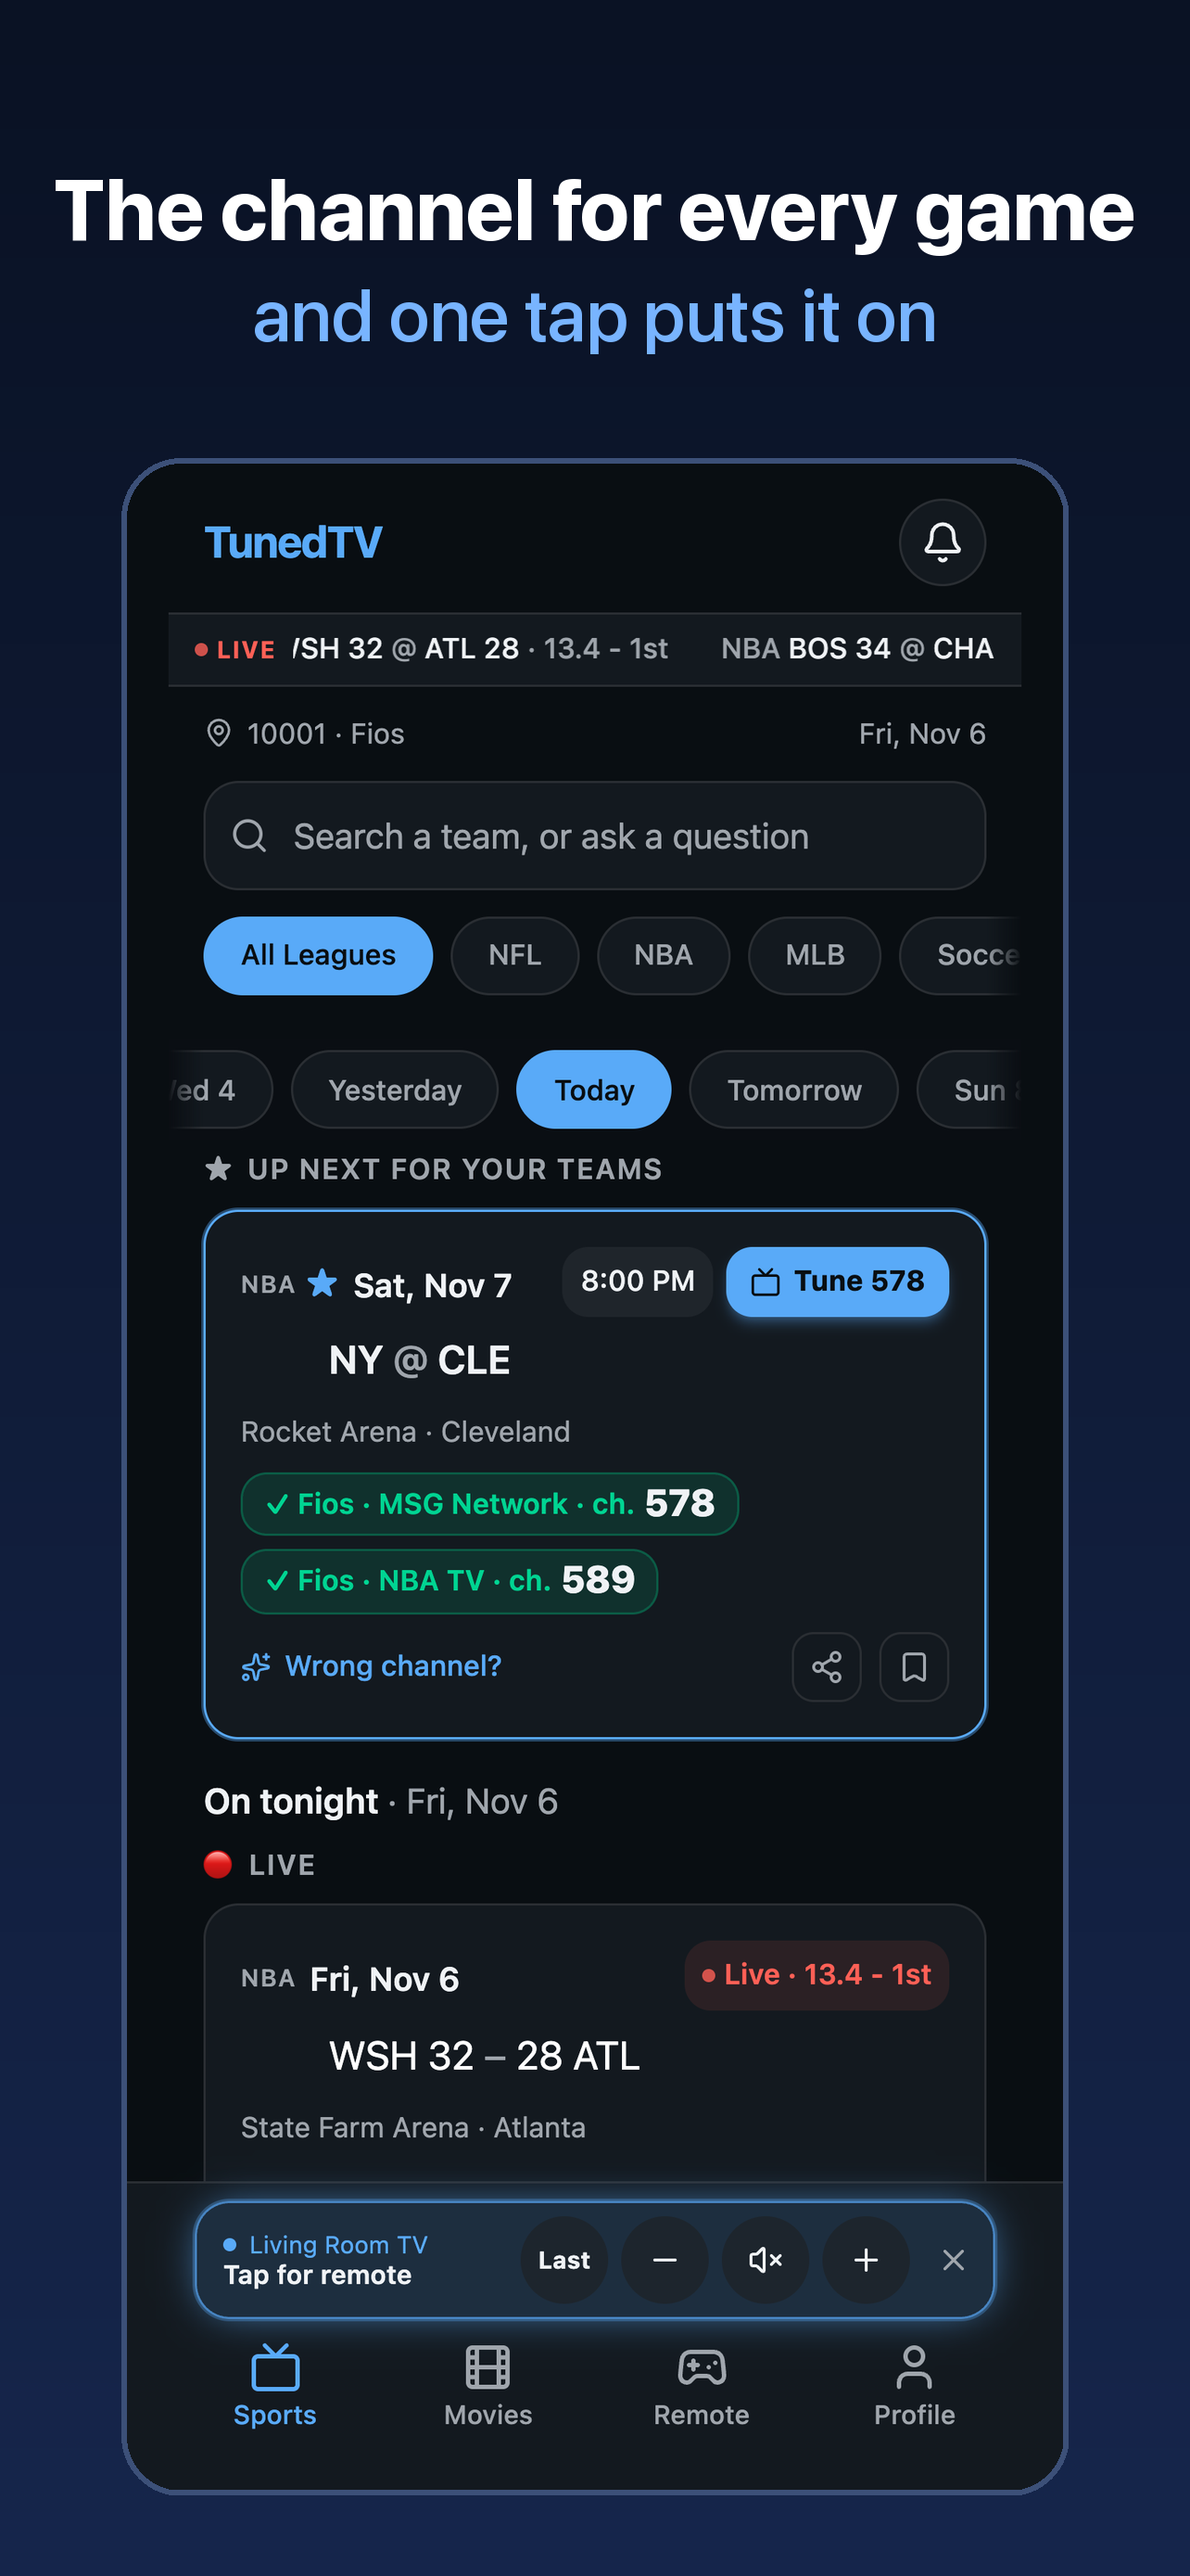
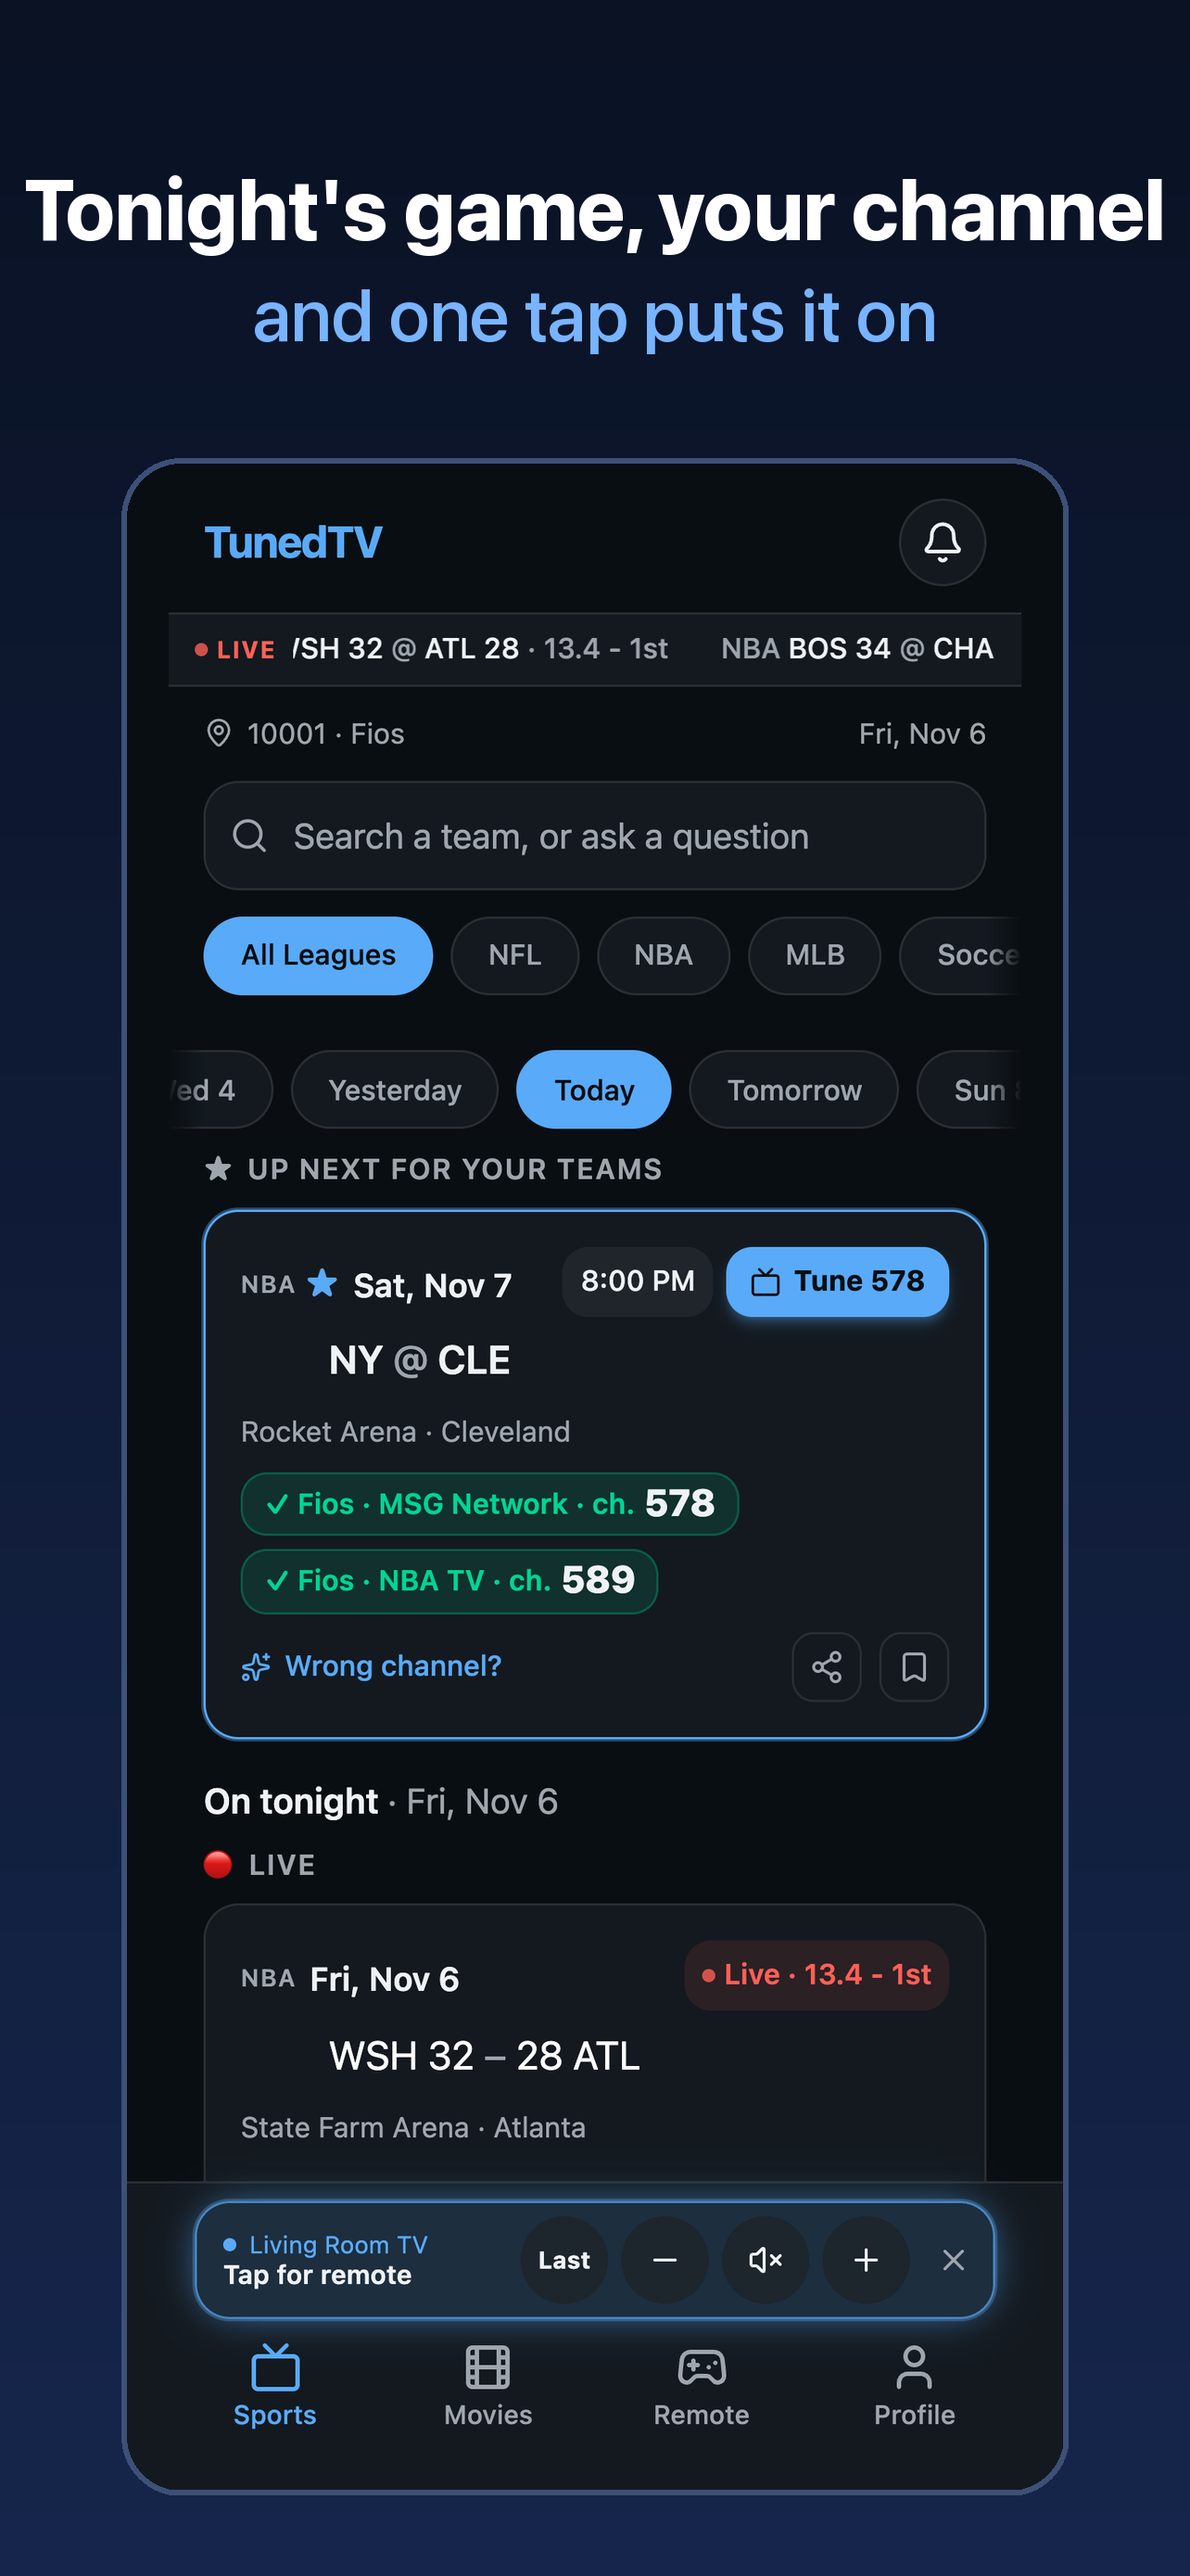
1.0.19 store: lead with the game channel, drop poster screenshots, no brand names in our own listing text

Changed region(s): [[0.0312, 0.0619, 0.9969, 0.1238]]

diff --git a/docs/app-store-screenshots/1.0.19/frame_1019.py b/docs/app-store-screenshots/1.0.19/frame_1019.py
@@ -6,16 +6,15 @@ sys.path.insert(0, "../1.0.14")
 from frame import font, rounded
 
 IP, PAD = sys.argv[1], sys.argv[2]
+# Captions stay clear of other companies' names (App Store guideline 2.3.7). The movie and title
+# screens are left out on purpose: their posters and backdrop stills are studio-owned artwork.
 IPHONE = [
-    ("1-sports", "The channel for every game", "and one tap puts it on"),
-    ("5-ask", "Just say it", "\u201cPut on ESPN in the living room\u201d"),
-    ("2-movies", "What to watch tonight", "on the services you pay for"),
-    ("3-title", "Pick a show, play it on TV", "or open it on your phone"),
-    ("4-remote", "No TV handy?", "Try the demo TV"),
+    ("1-sports", "Tonight's game, your channel", "and one tap puts it on"),
+    ("5-ask", "Just say what you want on", "and your TV changes"),
+    ("4-remote", "No TV handy?", "Try it on the demo TV"),
 ]
 IPAD = [
-    (["1-sports", "5-ask"], "The channel for every game", "just say it, and it's on"),
-    (["2-movies", "3-title"], "What to watch tonight", "played on your TV in one tap"),
+    (["1-sports", "5-ask"], "Tonight's game, your channel", "just say it, and it's on"),
 ]
 
 

diff --git a/docs/app-store-1.0.19.md b/docs/app-store-1.0.19.md
@@ -39,18 +39,21 @@ Siri: "Ask TunedTV". Control Center: "Ask TunedTV" and "TV Remote". Widget: "Nex
 
 ## Screenshots (replace the whole set; the 1.0.14 images show old tabs and the old Ask box)
 
-All in `app-store-screenshots/1.0.19/`, captured from the live app 2026-11-06 (Fios, 10001, demo
-TV), team logos left out. Drag in this order and delete the old ones:
+All in `app-store-screenshots/1.0.19/`, captured from the live app 2026-11-06 (demo TV). The first
+image is the lead because "the channel for tonight's game, one tap" is the reason to download; a
+plain universal remote is a crowded pitch. Drag in this order and delete the old ones:
 
 iPhone 6.5" (1284x2778):
-0. `iphone-6.5-0-one-remote.png` One remote for every TV
-1. `iphone-6.5-1-sports.png` The channel for every game, and one tap puts it on
-2. `iphone-6.5-2-ask.png` Just say it: "Put on ESPN in the living room"
-3. `iphone-6.5-3-movies.png` What to watch tonight, on the services you pay for
-4. `iphone-6.5-4-title.png` Pick a show, play it on TV, or open it on your phone
-5. `iphone-6.5-5-remote.png` No TV handy? Try the demo TV
+1. `iphone-6.5-1-sports.png` Tonight's game, your channel, and one tap puts it on
+2. `iphone-6.5-2-ask.png` Just say what you want on, and your TV changes
+3. `iphone-6.5-3-remote.png` No TV handy? Try it on the demo TV
+4. `iphone-6.5-0-one-remote.png` One remote for every TV
 
-iPad 13" (2064x2752): `ipad-13-0-one-remote.png`, `ipad-13-1-sports.png`, `ipad-13-2-movies.png`
+iPad 13" (2064x2752): `ipad-13-1-sports.png`, then `ipad-13-0-one-remote.png`
+
+Left out on purpose: the movies and title screens. Their posters and backdrop stills are
+studio-owned artwork, and TMDB's terms say they don't own those images and don't license them for
+commercial use. The app shows them to users; the store page should not.
 
 Rebuild: `VW=428 VH=926 DSF=3 SHOTS=/tmp/store/ip node scripts/phone-sim.mjs https://tunedtv.com
 $PWD/scripts/phone-sim/store-shots.mjs` (and `VW=1032 VH=1376 DSF=2` for iPad) in tuned-tv-finder,
@@ -60,16 +63,21 @@ then `python3 frame_1019.py /tmp/store/ip /tmp/store/ipad` here.
 
 - Name (26/30): `TunedTV: Remote & TV Guide`
 - Subtitle (29/30): `Universal remote for every TV`
-- Keywords (95/100): `fios,directv,roku,lg,google,cable box,channel,sports,game,where to watch,streaming,live,nba,nfl`
-  (no app names like Netflix or ESPN: Apple rejects other apps' names in keywords)
-- Promotional text (159/170, can change any time without review):
-  `Fios and DIRECTV boxes, Roku, LG and Google TV in one remote. Find the channel for tonight's
-  game and put it on in one tap, or just say what you want to watch.`
+- Keywords (95/100): `universal remote,tv remote,cable box,channel guide,live tv,sports,where to watch,streaming,game`
+  No company or brand names: guideline 2.3.7 says metadata can't be packed with trademarked terms
+  or other companies' names, and the keyword field is where that gets rejected.
+- Promotional text (147/170, can change any time without review):
+  `Your cable box and every smart TV, in one remote. Find the channel for tonight's game and put
+  it on in one tap, or just say what you want to watch.`
+
+The app's own screens name providers, channels and streaming apps, because that's how it tells you
+where to watch. That's the app doing its job. Our own words (name, subtitle, keywords, promotional
+text, screenshot captions) name nobody.
 
 ## Steps in App Store Connect
 
 1. Apps > TunedTV > "+" next to iOS App > version 1.0.19.
-2. Paste What's New. Add the two lead screenshots.
+2. Paste What's New, the subtitle, keywords and promotional text. Replace the screenshots with the set above, in order.
 3. Build: choose 1.0.19 (39) once it says "Ready to Submit" (Apple processing, usually 15-30 min).
 4. App Review Information > Notes: paste the notes above.
 5. Add for Review > Submit.
